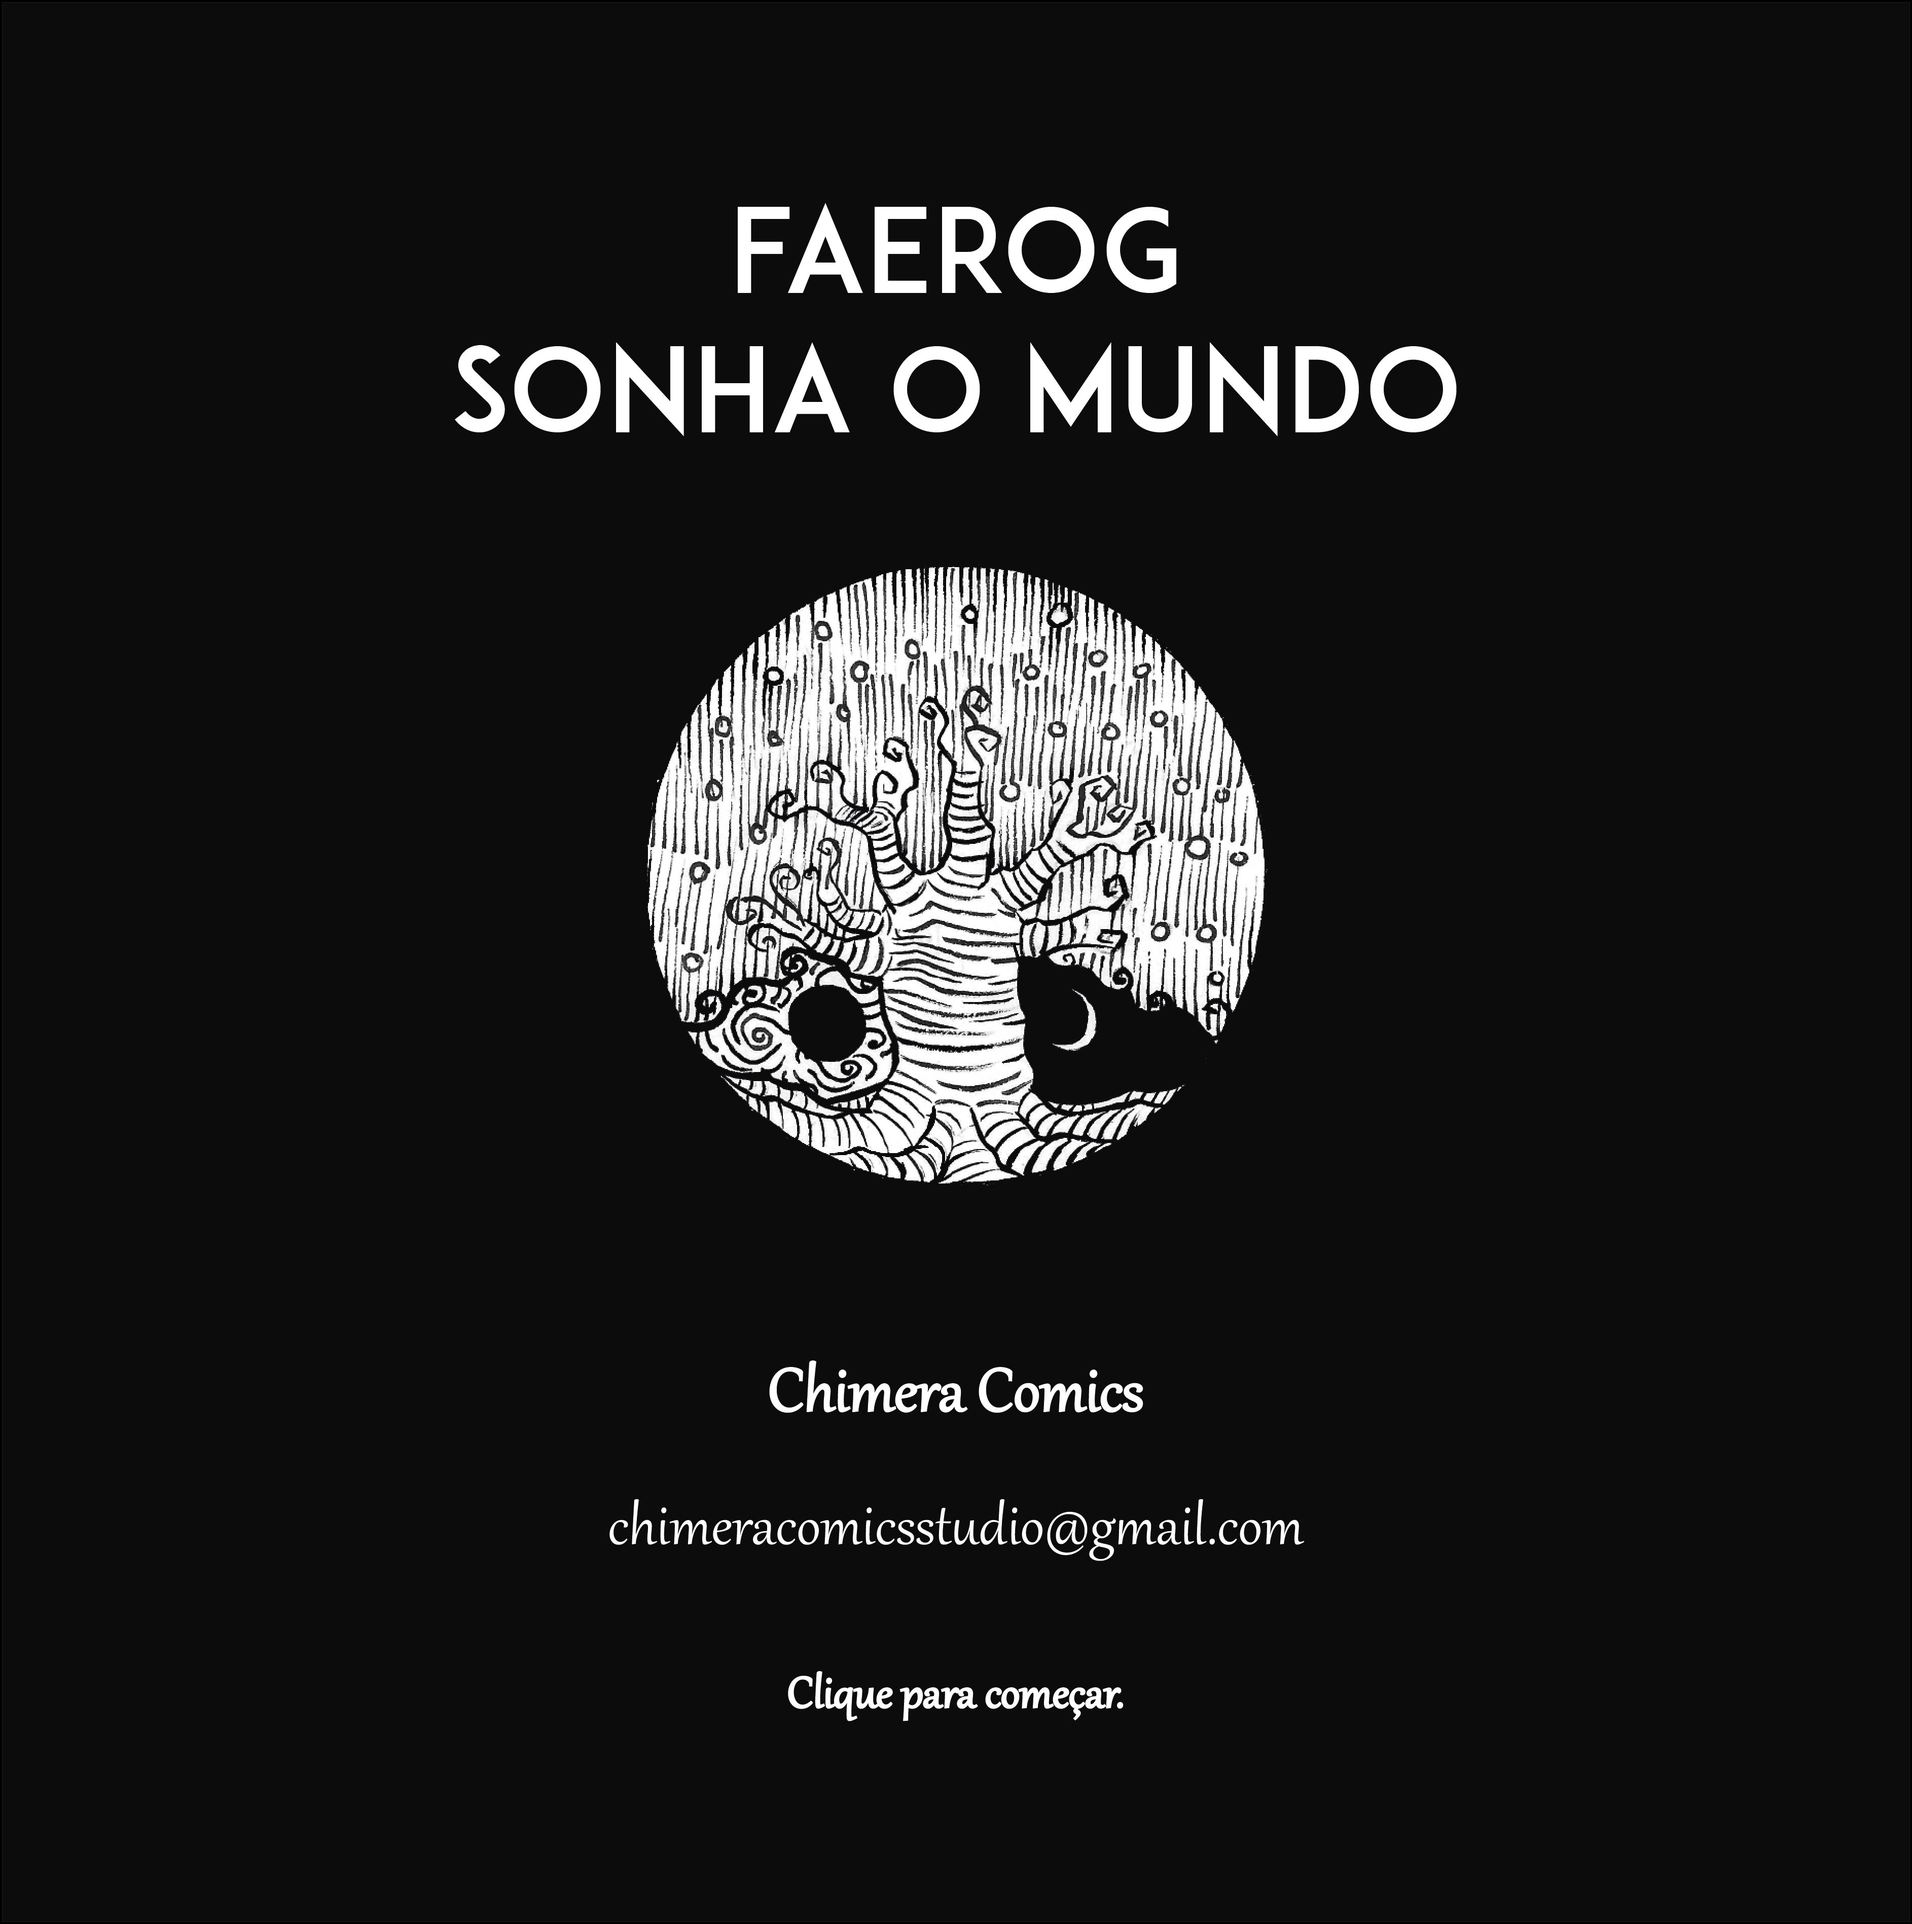
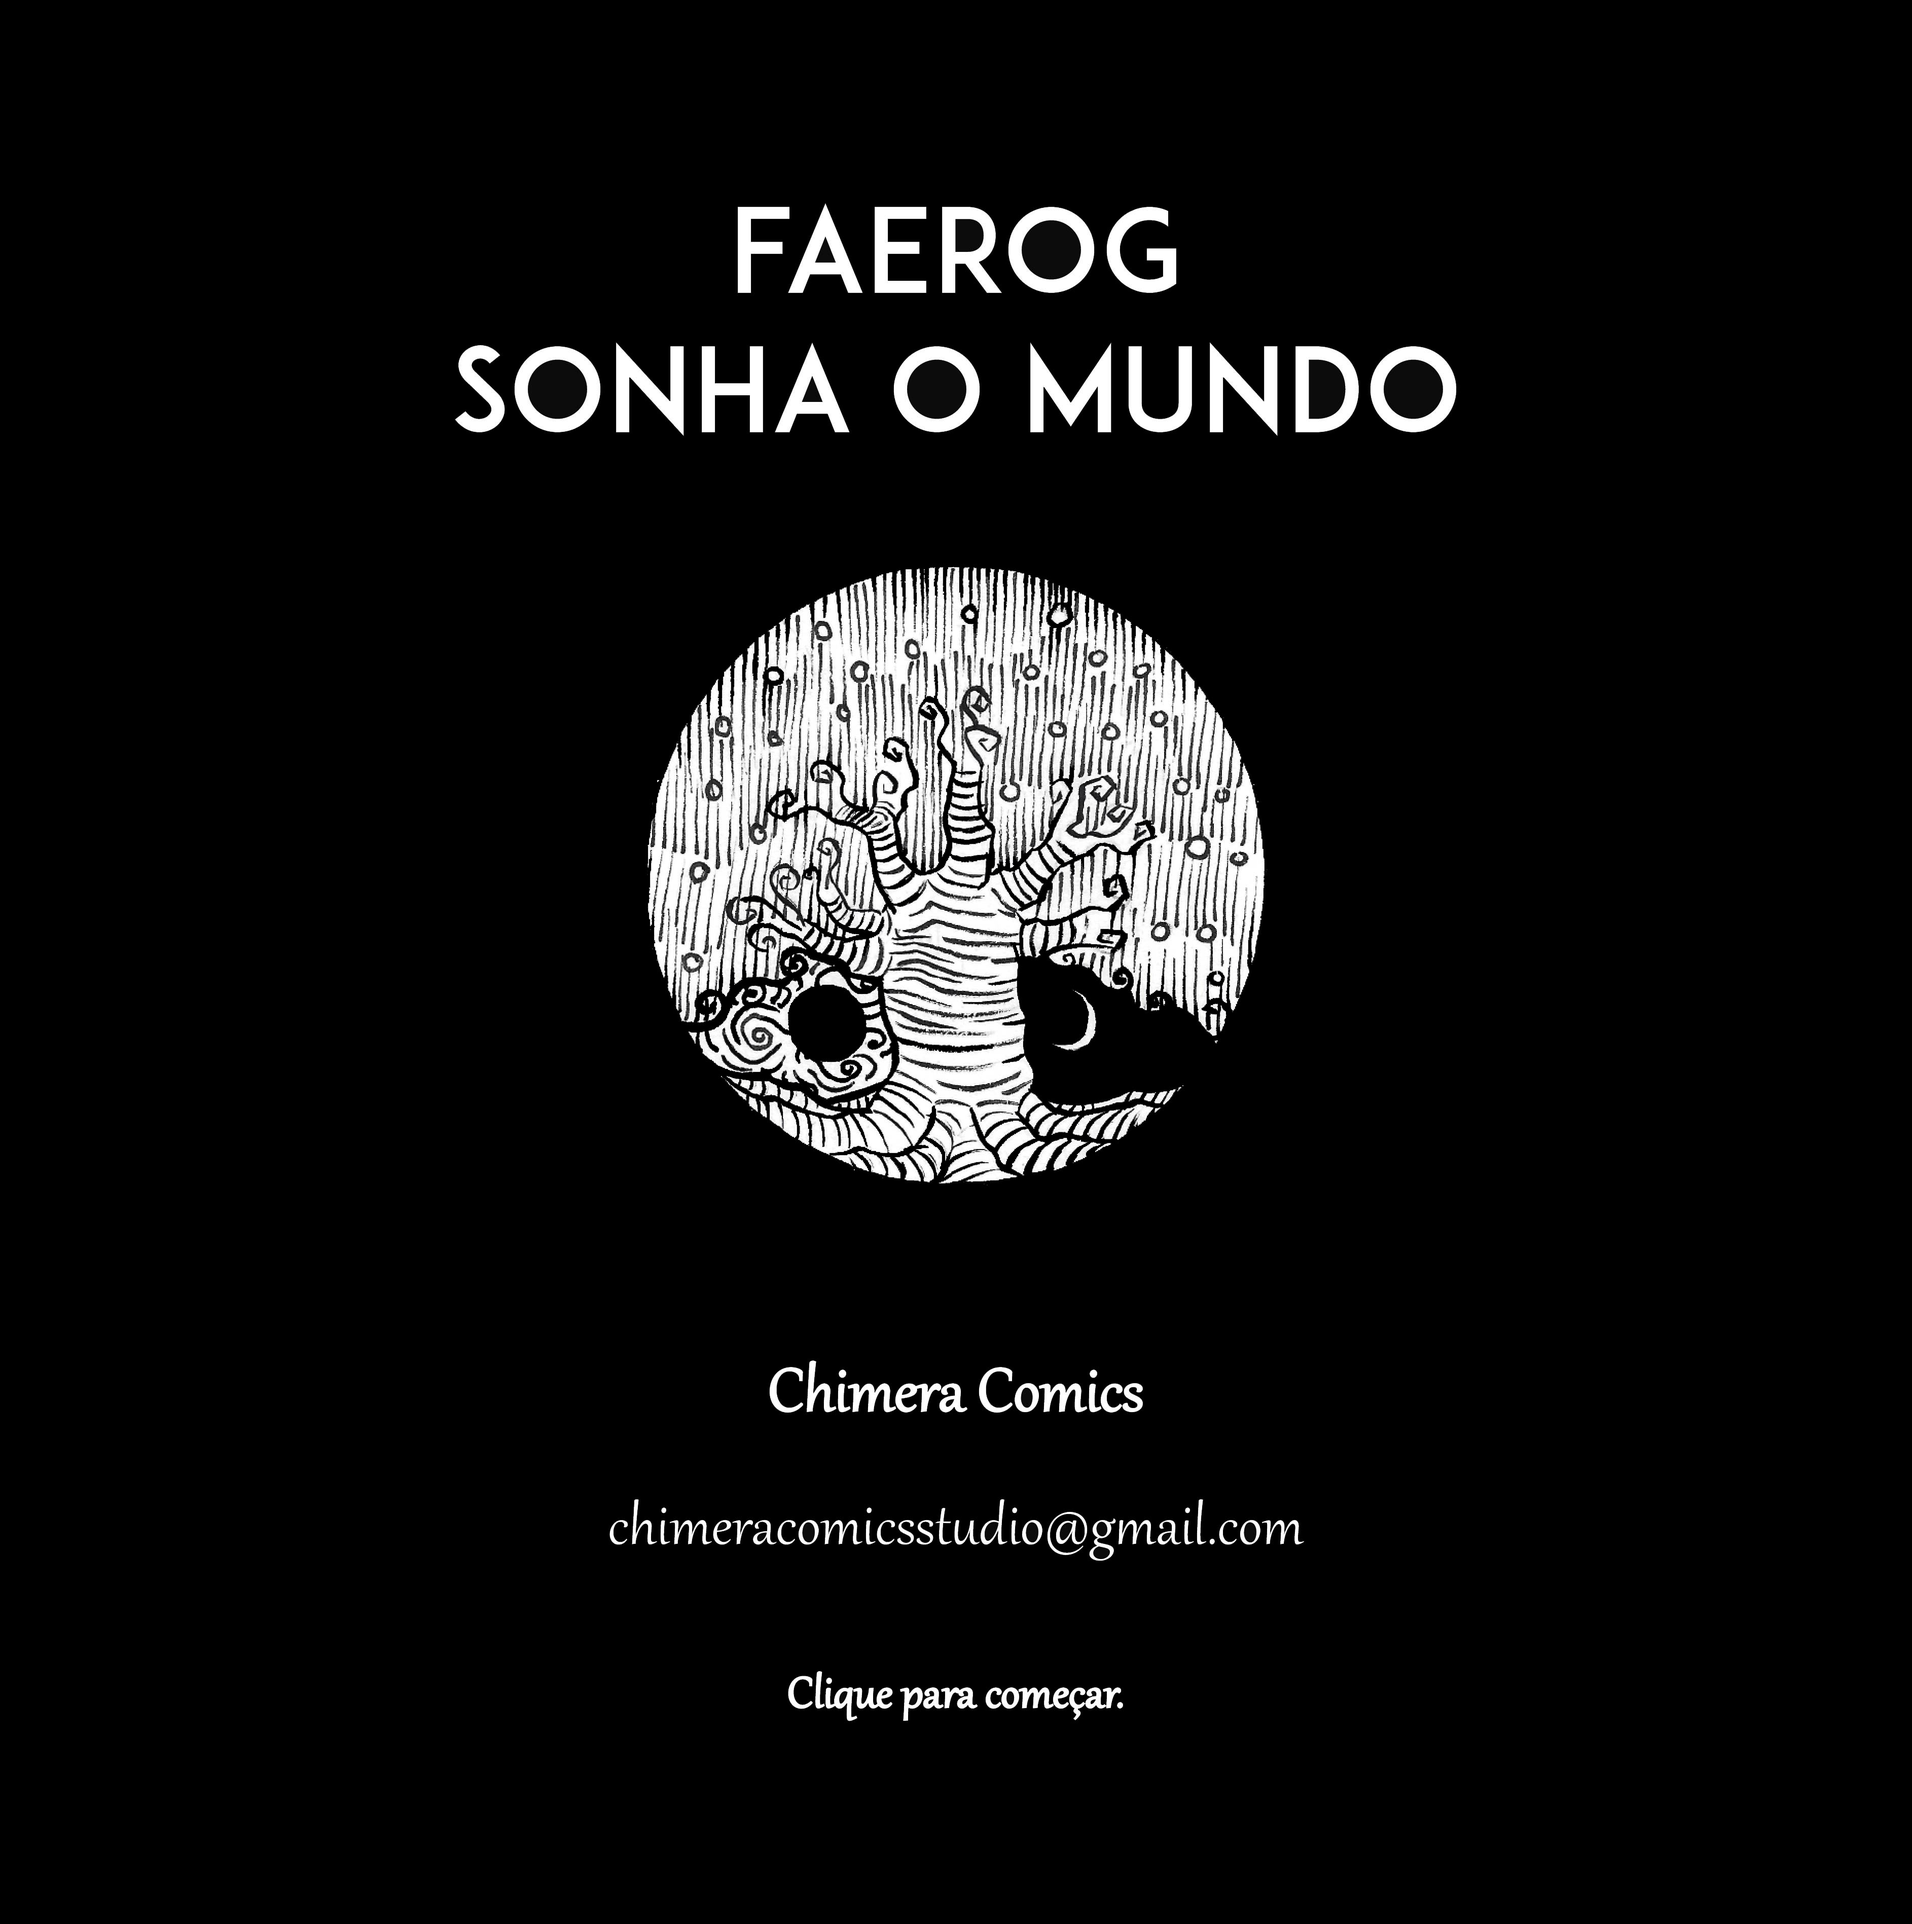
Changes the cover page and its background color

diff --git a/index.html b/index.html
@@ -1,1 +1,1 @@
-<!DOCTYPE html><html><head><meta charset='utf-8'><title>Faerog</title><style>a:hover, a:active, a:focus {outline:0;}</style></head><body style='background:#0a0b0b'><div align='center'><a style='border:none;' href='pages/navigation/1.html'><img style='width:45%;' src='pages/faerogcover.jpg'/></a></div></body></html>
+<!DOCTYPE html><html><head><meta charset='utf-8'><title>Faerog</title><style>a:hover, a:active, a:focus {outline:0;}</style></head><body style='background:#000'><div align='center'><a style='border:none;' href='pages/navigation/1.html'><img style='width:45%;' src='pages/faerogcover.jpg'/></a></div></body></html>
